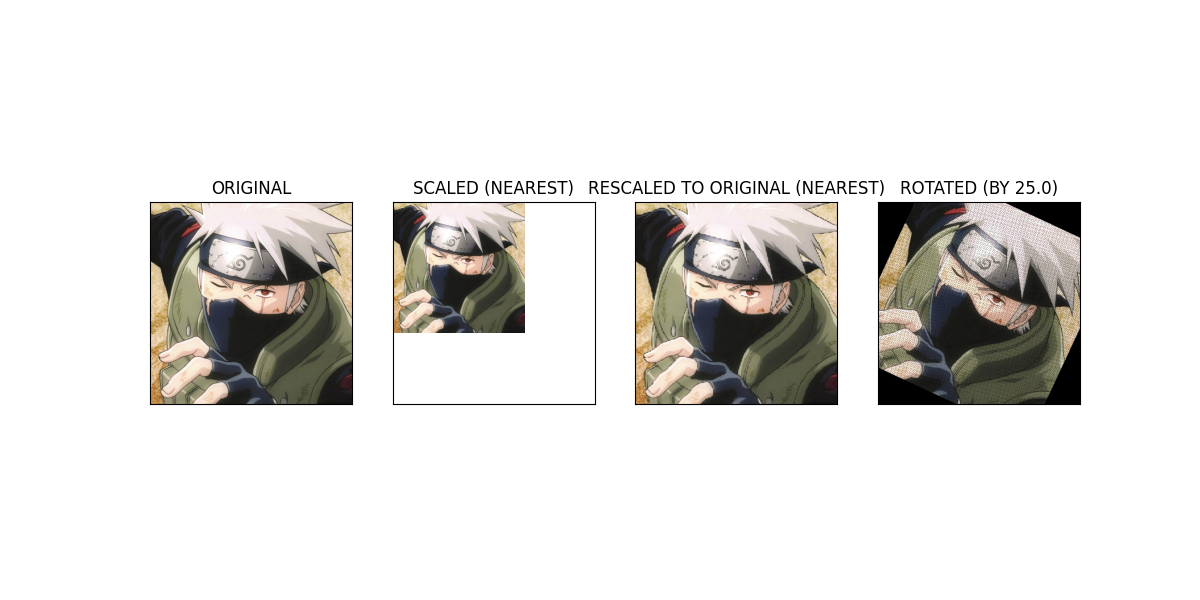
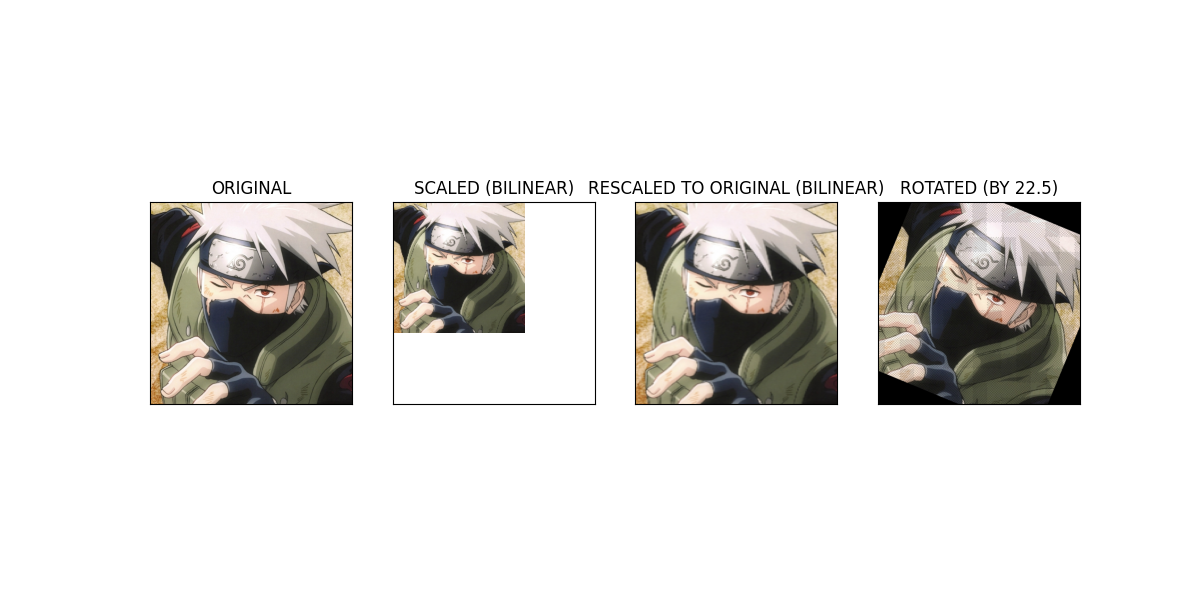
Added KEYS interpolation

Changed region(s): [[0.7092, 0.3, 0.925, 0.66], [0.3392, 0.3, 0.4933, 0.33], [0.6475, 0.3, 0.74, 0.33]]

diff --git a/lab-03/scale-and-rotate.py b/lab-03/scale-and-rotate.py
@@ -54,8 +54,8 @@ def bilinear(image: np.ndarray, size: int) -> np.ndarray:
             x_old = x / scale
             y_old = y / scale
 
-            x1, y1 = min(np.int64(np.floor(x_old)), img_size - 1), min(np.int64(np.floor(y_old)), img_size - 1)
-            x2, y2 = min(np.int64(np.ceil(x_old)), img_size - 1), min(np.int64(np.ceil(y_old)), img_size - 1)
+            x1, y1 = min(np.int16(np.floor(x_old)), img_size - 1), min(np.int16(np.floor(y_old)), img_size - 1)
+            x2, y2 = min(np.int16(np.ceil(x_old)), img_size - 1), min(np.int16(np.ceil(y_old)), img_size - 1)
 
             q11, q12 = image[x1][y1], image[x2][y1]
             q21, q22 = image[x1][y2], image[x2][y2]
@@ -70,9 +70,43 @@ def bilinear(image: np.ndarray, size: int) -> np.ndarray:
     return interpolated
 
 
+def weight(x: float) -> float:
+    a = -0.5
+    position = abs(x)
+
+    if -1 <= abs(x) <= 1:
+        return ((a + 2) * position**3) - ((a + 3) * position ** 2)
+    elif 1 < abs(x) < 2 or -2 < x < -1:
+        return (a * position**3) - (5 * a * position**2) + (8 * a * position) - 4 * a
+
 @benchmark
 def keys(image: np.ndarray, size: int) -> np.ndarray:
-    pass
+    # function was taken from:
+    # https://github.com/YasinEnigma/Image_Interpolation/blob/main/main.py
+
+    interpolated = np.zeros((size, size, 3))
+    img_size = image.shape[0:2][0]
+
+    for c in range(3):
+        for i in range(size):
+            for j in range(size):
+                xm, ym = (i + 0.5) * (img_size / size) - 0.5, (j + 0.5) * (img_size / size) - 0.5
+
+                xi, yi = np.floor(xm), np.floor(ym)
+                u = xm - xi
+                v = ym - yi
+
+                out = 0
+                for n in range(-1, 3):
+                    for m in range(-1, 3):
+                        if xi + n < 0 or xi + n >= img_size or yi + m < 0 or yi + m >= img_size:
+                            continue
+
+                        out += image[np.int16(xi + n), np.int16(yi + m), c] * weight(u - n) * weight(v - m)
+
+                interpolated[i, j, c] = np.clip(out, 0, 255)
+
+    return interpolated
 
 
 INTERPOLATIONS = {
@@ -96,8 +130,8 @@ def rotate(image: np.ndarray, angle: float) -> np.ndarray:
             x_prime = np.round(xt * np.cos(radians) - yt * np.sin(radians))
             y_prime = np.round(xt * np.sin(radians) + yt * np.cos(radians))
 
-            x_prime = np.int64(x_center - x_prime)
-            y_prime = np.int64(y_center - y_prime)
+            x_prime = np.int16(x_center - x_prime)
+            y_prime = np.int16(y_center - y_prime)
 
             if 0 <= x_prime < size and 0 <= y_prime < size and x_prime >= 0 and y_prime >= 0:
                 rotated[y_prime, x_prime, :] = image[y, x, :]
